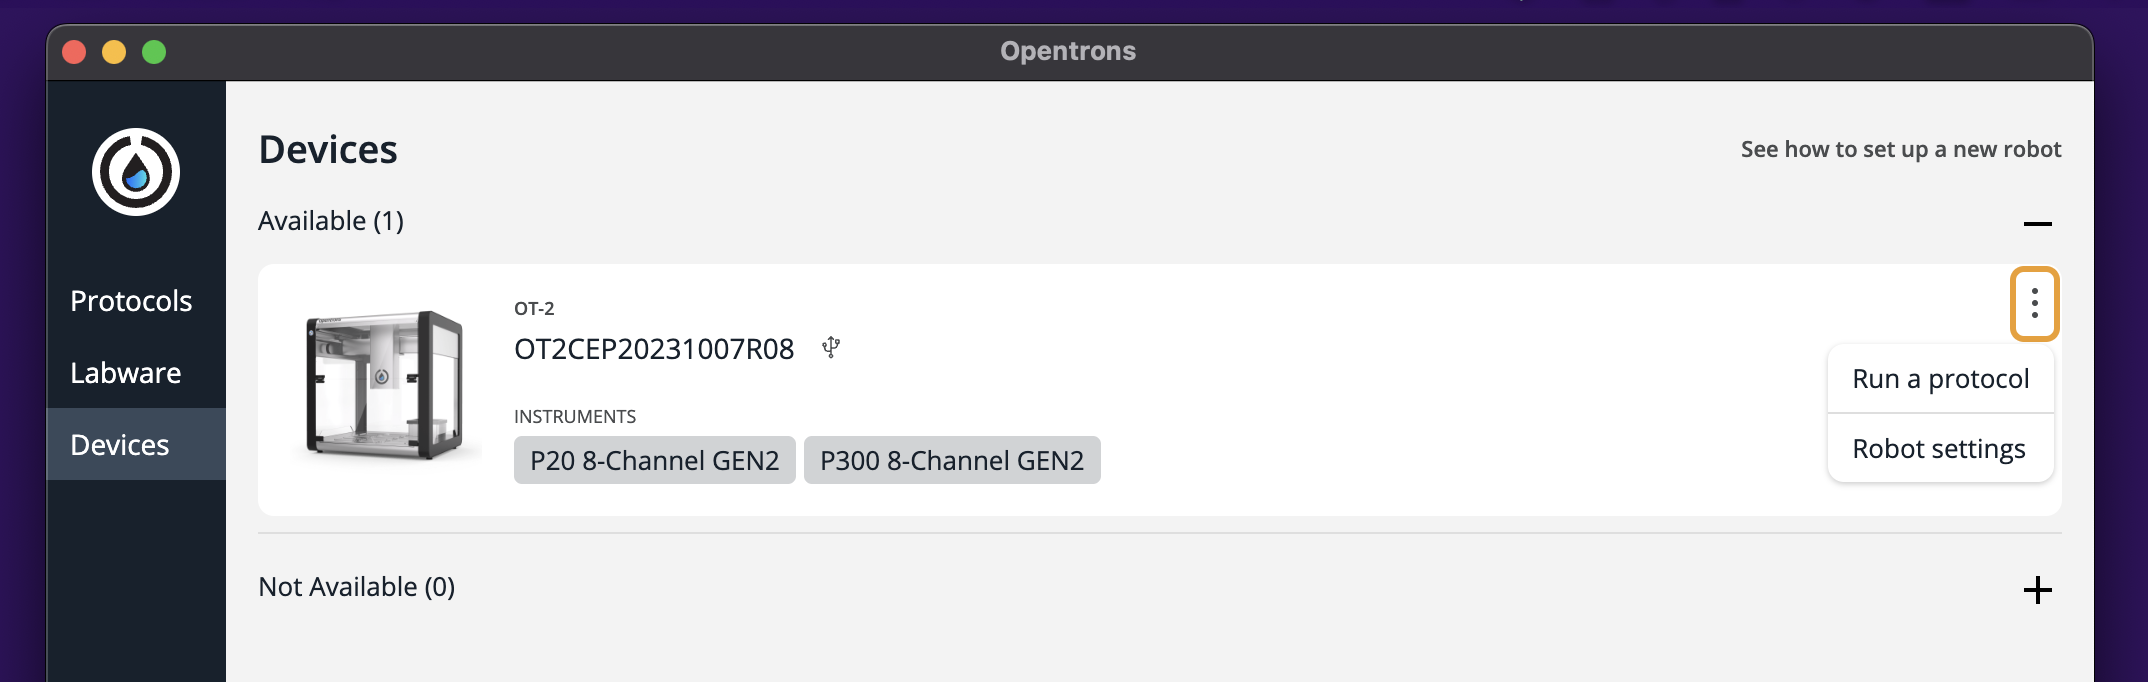
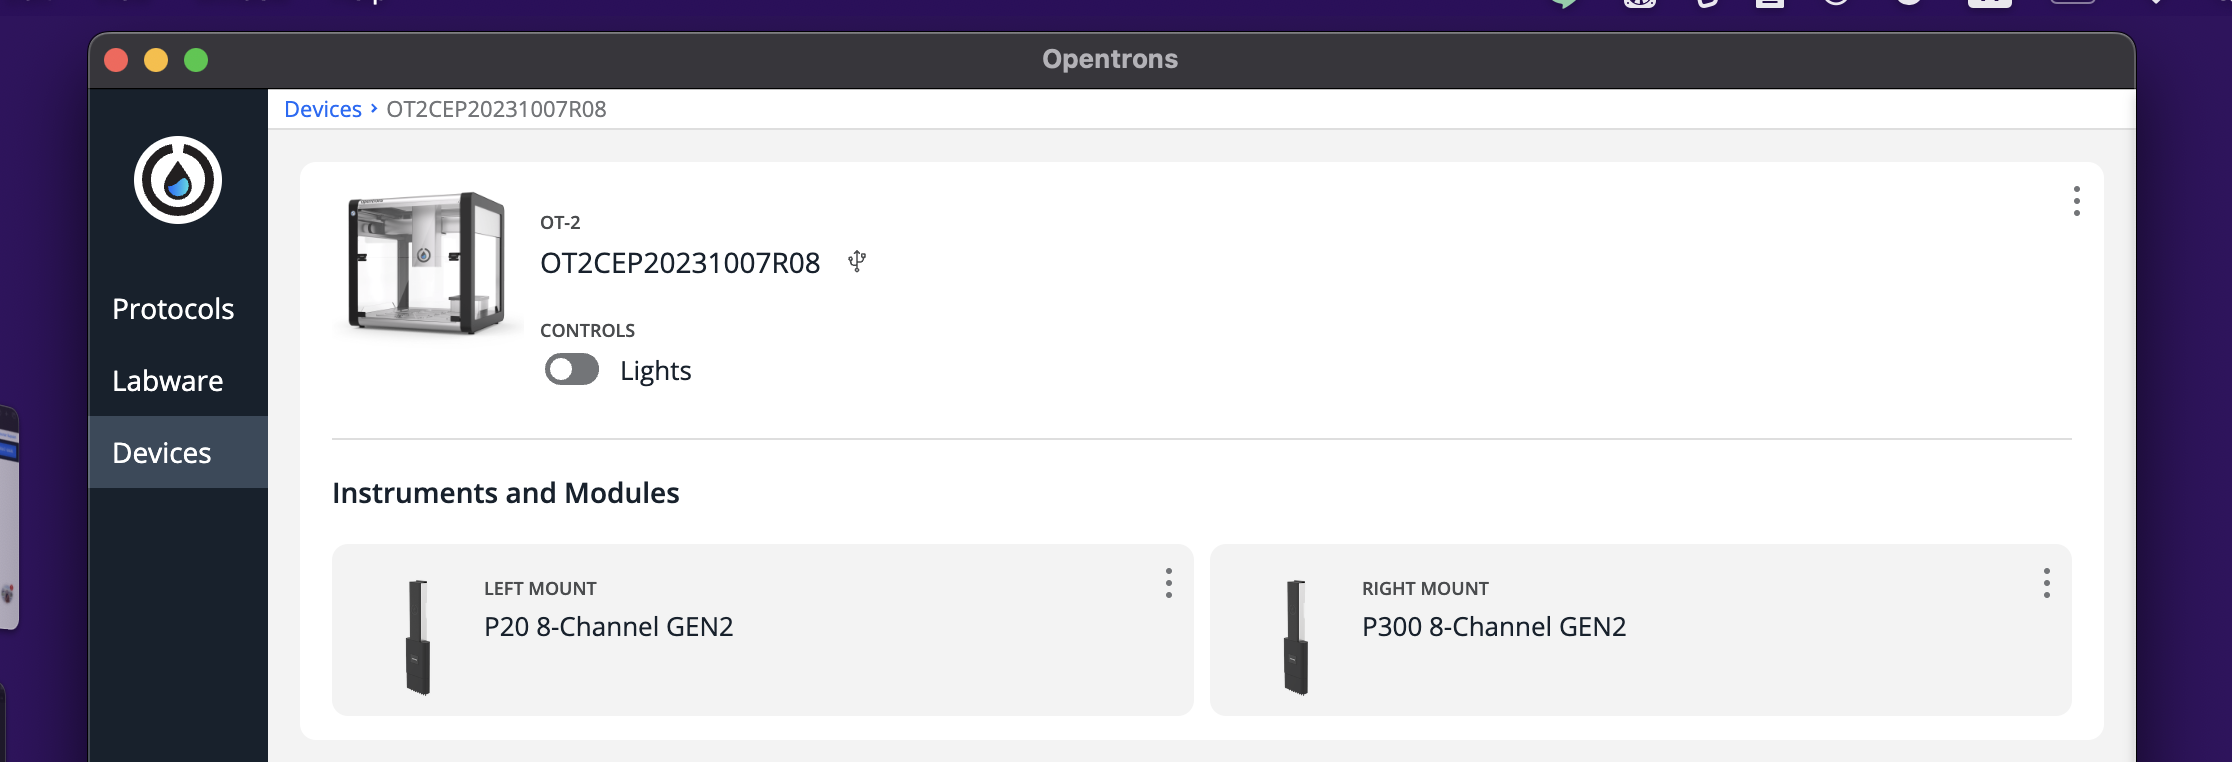
docs

Changed region(s): [[0.0, 0.0, 0.9981, 1.0], [0.5615, 0.739, 0.7486, 0.9238]]

diff --git a/README.md b/README.md
@@ -9,7 +9,9 @@
 
 ![](docs_images/1.png)
 
-5. デバイス右上の3つの点部分を選択し、Robot settingsセクションへ移動する。
-
+5. デバイスのプレビュー画像をクリックし、下記画面に移動する。
+   
 ![](docs_images/2.png)
+
+6. Lightsトグルからライトの点灯を確認する。(ライト点灯は接続チェックを兼ねる。)
 
